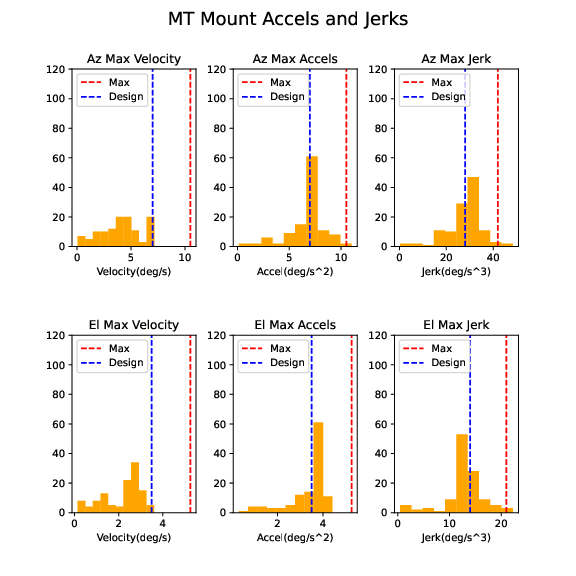
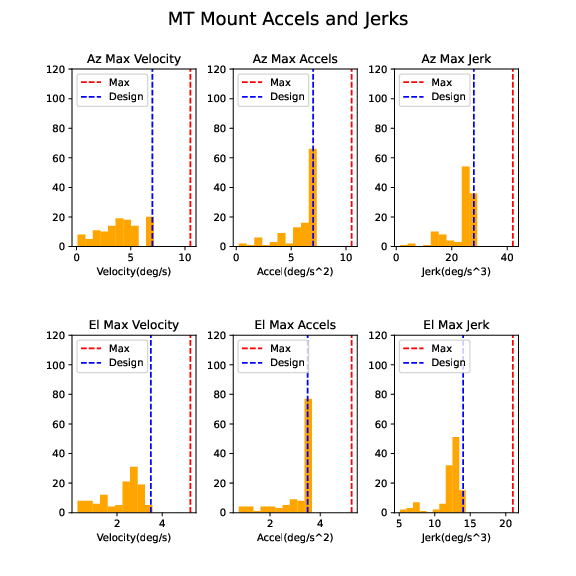
Updating technote with improved smoothing algorithm

diff --git a/index.rst b/index.rst
@@ -8,49 +8,56 @@
 Abstract
 ========
 
-This technote shows analysis of velocity, acceleration, and jerk of the TMA during random walk slews of 3.5 degrees on multiple nights.  Most slews are within the specifications, but some fail, probably because of noisy values in the encoders.
+This technote shows analysis of velocity, acceleration, and jerk of the TMA during random walk slews of 3.5 degrees on multiple nights.  All slews are within the specifications.
 
 Methodology
 ================
 
-The goal of this study was to analyze the velocities, accelerations, and jerks of the TMA mount during a series of random slews.  This was done using the azimuth and elevation velocity data stored in the EFD.  The velocity data during a slew was fit with an order 3 spline, which was then differentiated to obtain the acceleration and jerk values.  Smoothing was applied to the generated spline, and it is important to note that the results are heavily dependent on that smoothing.  Not enough smoothing, and the results are impacted by random noise in the velocity values, and too much smoothing and the spline does not fit the velocity data well.  I believe the choices made here are a good compromise, but these can always be changed.
+The goal of this study was to analyze the velocities, accelerations, and jerks of the TMA mount during a series of random slews.  This was done using the azimuth and elevation velocity data stored in the EFD.  The position data was fit with a spline and compared to the measured data. The velocity data during a slew was also fit with a spline, which was then differentiated to obtain the acceleration data.  The acceleration spline was then smoothed before being differentitaed again to generate the jerk data. An earlier version of this technote had many slews which were failing for high jerk values.  It is believed that the improved smoothing algorithm shown here generates acceleration and jerk profiles which are more "real" and not as dependent on noise in the encoder data stream.
 
 The notebook that did this analysis and made the plots in this technote is available at:
-https://github.com/craiglagegit/Notebook_Keeper/blob/main/summit_notebooks/MTMount_Vel_Accel_Jerk_23Mar23.ipynb
+https://github.com/craiglagegit/Notebook_Keeper/blob/main/summit_notebooks/MTMount_Vel_Accel_Jerk_24Mar23.ipynb
 
 
 Results
 ====================
 
-A typical slew is shown in Figure 1.  The position values are directly from the EFD with no smoothing.  The velocity values in the EFD are shown as crosses in the second plot down, with the spline fit shown as a solid line. The acceleration and jerk plots are obtained by differentiating the velocity spline using the scipy.interpolate.UnivariateSpline.derivative function. A total of 380 slews from 2 nights were analyzed in this way.
+Typical slews are shown in Figures 1 and 2.  In the top plots, the position values from the EFD are shown with a fitted spline, but this spline is not used in subsequent analysis.  The velocity values in the EFD are shown as crosses in the second plot down, with the spline fit shown as a solid line. The acceleration plots are obtained by differentiating the velocity spline using the scipy.interpolate.UnivariateSpline.derivative function, and the jerk values are obtained by similarly differentiating the acceleration values. Each spline is smoothed before being differentiated.  A total of 380 slews from 2 nights were analyzed in this way.
 
-.. image:: ./_static/MT_Mount_Accel_Jerk_Typ_20230323T081402.png
+.. image:: ./_static/MT_Mount_Accel_Jerk_Typ_20230126T073336.png
 
-Figure 1.  Typical position/velocity/acceleration/jerk plot.
+Figure 1.  Typical position/velocity/acceleration/jerk plot from the night of January 26, 2023..
 
-Figures 2 and 3 show summary histograms from these two nights, with the design values as blue dotted vertical lines and the max values as red dotted vertical lines.  It can be seen that most slews meet the specifications, but there are a few failures, which are discussed in the next section.
+.. image:: ./_static/MT_Mount_Accel_Jerk_Typ_20230323T071542.png
+
+Figure 2.  Typical position/velocity/acceleration/jerk plot from the night of March 22, 2023.
+
+Figures 3 and 4 show summary histograms from these two nights, with the design values as blue dotted vertical lines and the max values as red dotted vertical lines.  It can be seen that all values are within the specifications.  It should be noted that an earlier version of this technote showed failures due to noise in the encoder streams, but these have been eliminated with an improved smoothing algorithm, as discussed in the next section.
 
 .. image:: ./_static/Max_Accel_Jerks_26Jan23.png
 
-Figure 2.  Summary histograms from 26Jan23.  This contains 262 slews.
+Figure 3.  Summary histograms from 26Jan23.  This contains 223 slews.
 
 .. image:: ./_static/Max_Accel_Jerks_22Mar23.png
 
-Figure 3.  Summary histograms from 22Mar23.  This contains 118 slews.
+Figure 4.  Summary histograms from 22Mar23.  This contains 119 slews.
 
 
 Failures
 ==========================
 
-Most of the failures are due to noise in the actualVelocity values in the EFD.  Differentiating this noise results in large variations in acceleration and jerk.  A typical plot that failed the jerk specification is shown in Figure 4.  All of the plots that failed any specification are available at the summit in /scratch/cslage/tma/MTMount_accel_jerk_fails.
+As discussed above, an earlier version of this technote showed failures due to noise in the encoder streams, but these have been eliminated with an improved smoothing algorithm.  A typical plot that failed the jerk specification with the earlier algorithm is shown in Figure 5.  Figure 6 shows the same slew with the improved algorithm, where the noise from the velocity values in the encoder stream have been smoothed out.
 
 .. image:: ./_static/MT_Mount_Accel_Jerk_Fail_20230126T091443.png
 
-Figure 4.  A typical failing plot.  This failed both the azimuth acceleration and azimuth jerk specification.
+Figure 5.  A typical failing plot with the older algorithm.  This failed both the azimuth acceleration and azimuth jerk specification.
 
+.. image:: ./_static/MT_Mount_Accel_Jerk_20230126T091443.png
+
+Figure 6.  The same slew plotted with the improved algorithm.  The noise in the encoder stream has been smoothed out.
 
 Summary
 ==========================
 
-This technote shows a summary of the TMA performance for velocity, acceleration, and jerk durin soak test on on two nights.  Most slews meet the specifications, but there are a few failures, mostly caused by noise in the EFD velocity values.
+This technote shows a summary of the TMA performance for velocity, acceleration, and jerk durin soak test on on two nights.  All slews meet the specifications for velocity, acceleration, and jerk.
 
